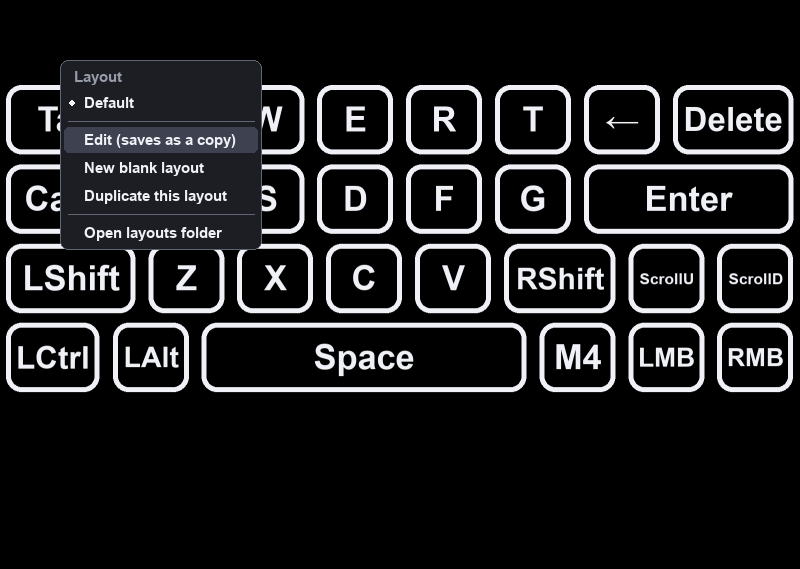
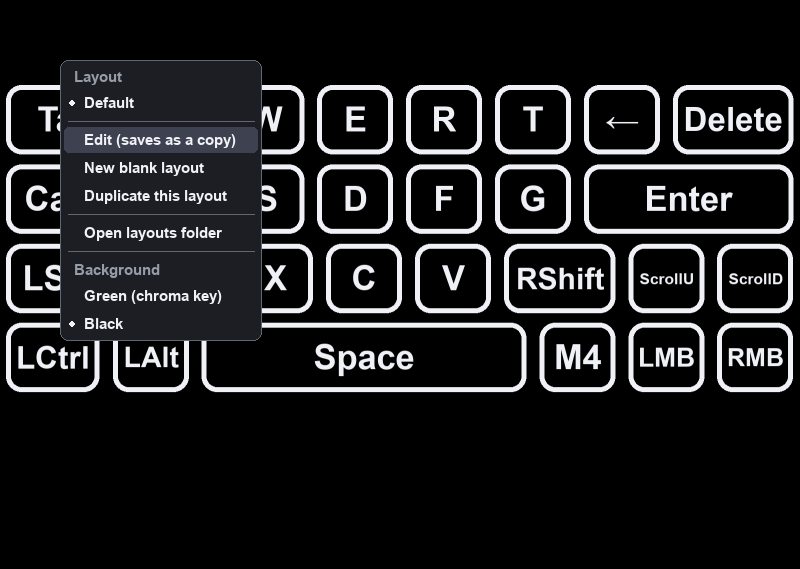
Move the background toggle from the G key to the right-click menu
The background (green chroma key or black) is now picked in the menu and remembered.
The G shortcut is removed so it cannot be triggered by accident while the window has focus.

Changed region(s): [[0.0625, 0.4183, 0.3438, 0.5975]]

diff --git a/inputviewer/app.py b/inputviewer/app.py
@@ -1,6 +1,6 @@
 """Ventana principal: teclado + ratón con diseños editables; los mandos aparecen como cajitas.
 
-Clic derecho = menú (elegir / editar / crear / duplicar / borrar diseños).  G = fondo verde / negro.
+Clic derecho = menú (diseños: elegir / editar / crear / duplicar / borrar; fondo verde o negro).
 Opciones de prueba:  --screenshot ruta.png   --demo   --edit-demo   --open-menu
 """
 import os
@@ -81,6 +81,7 @@ def main():
     L.normalize(layout)
     layout_ver = 0
     editor, menu = Editor(), ContextMenu()
+    bg_green = cfg.get("background", "green") != "black" and shot is None  # fondo preferido (chroma key)
     confirm = None                # ("delete", id) mientras se espera sí/no
     toast, toast_until = "", 0.0
 
@@ -108,12 +109,17 @@ def main():
                   ("new", "New blank layout", False), ("dup", "Duplicate this layout", False)]
         if layout_id != L.BUILTIN:
             items.append(("del", "Delete this layout…", False))
-        items += [(None, "-", False), ("folder", "Open layouts folder", False)]
+        items += [(None, "-", False), ("folder", "Open layouts folder", False),
+                  (None, "-", False), (None, "Background", False),
+                  ("bg:green", "Green (chroma key)", bg_green), ("bg:black", "Black", not bg_green)]
         return items
 
     def do_menu(key):
-        nonlocal confirm
-        if key.startswith("layout:"):
+        nonlocal confirm, bg_green
+        if key.startswith("bg:"):
+            bg_green = key == "bg:green"
+            config.save({**config.load(), "background": "green" if bg_green else "black"})
+        elif key.startswith("layout:"):
             set_layout(key[7:])
         elif key == "edit":
             if layout_id == L.BUILTIN:
@@ -151,7 +157,6 @@ def main():
         menu.show((60, 60), menu_items())
         menu.hover = "edit"
 
-    bg_green = shot is None
     last_key, scaled = None, pygame.Surface((1, 1))
     clock = pygame.time.Clock()
     t0 = time.time()
@@ -190,9 +195,7 @@ def main():
                     finish_edit(res == "save")
                     editing = editor.active
             else:
-                if e.type == pygame.KEYDOWN and e.key == pygame.K_g:
-                    bg_green = not bg_green
-                elif e.type == pygame.KEYDOWN and e.key == pygame.K_ESCAPE:
+                if e.type == pygame.KEYDOWN and e.key == pygame.K_ESCAPE:
                     menu.hide()
                 elif e.type == pygame.MOUSEBUTTONDOWN and e.button == 3:
                     menu.show(e.pos, menu_items())

diff --git a/README.md b/README.md
@@ -42,8 +42,9 @@ pip install -r requirements.txt
 python run.py
 ```
 
-**Right-click** opens the menu (choose, edit, create, duplicate or delete layouts). **G** toggles a
-green background (chroma key in OBS: Window Capture + "Color Key" filter `#00B140`) and black.
+**Right-click** opens the menu: choose, edit, create, duplicate or delete layouts, and pick the
+**Background** (green for a chroma key in OBS — Window Capture + "Color Key" filter `#00B140` —
+or black). Both choices are remembered.
 Preview without pressing anything: `python run.py --demo`.
 
 ## Custom layouts
@@ -174,8 +175,9 @@ pip install -r requirements.txt
 python run.py
 ```
 
-**Clic derecho** abre el menú (elegir, editar, crear, duplicar o borrar diseños). **G** alterna
-fondo verde (chroma key en OBS: Captura de ventana + filtro «Clave de color» `#00B140`) y negro.
+**Clic derecho** abre el menú: elegir, editar, crear, duplicar o borrar diseños, y elegir el
+**Background** (verde para un chroma key en OBS —Captura de ventana + filtro «Clave de color»
+`#00B140`— o negro). Ambas elecciones se recuerdan.
 Vista previa sin pulsar nada: `python run.py --demo`.
 
 ## Diseños personalizados
